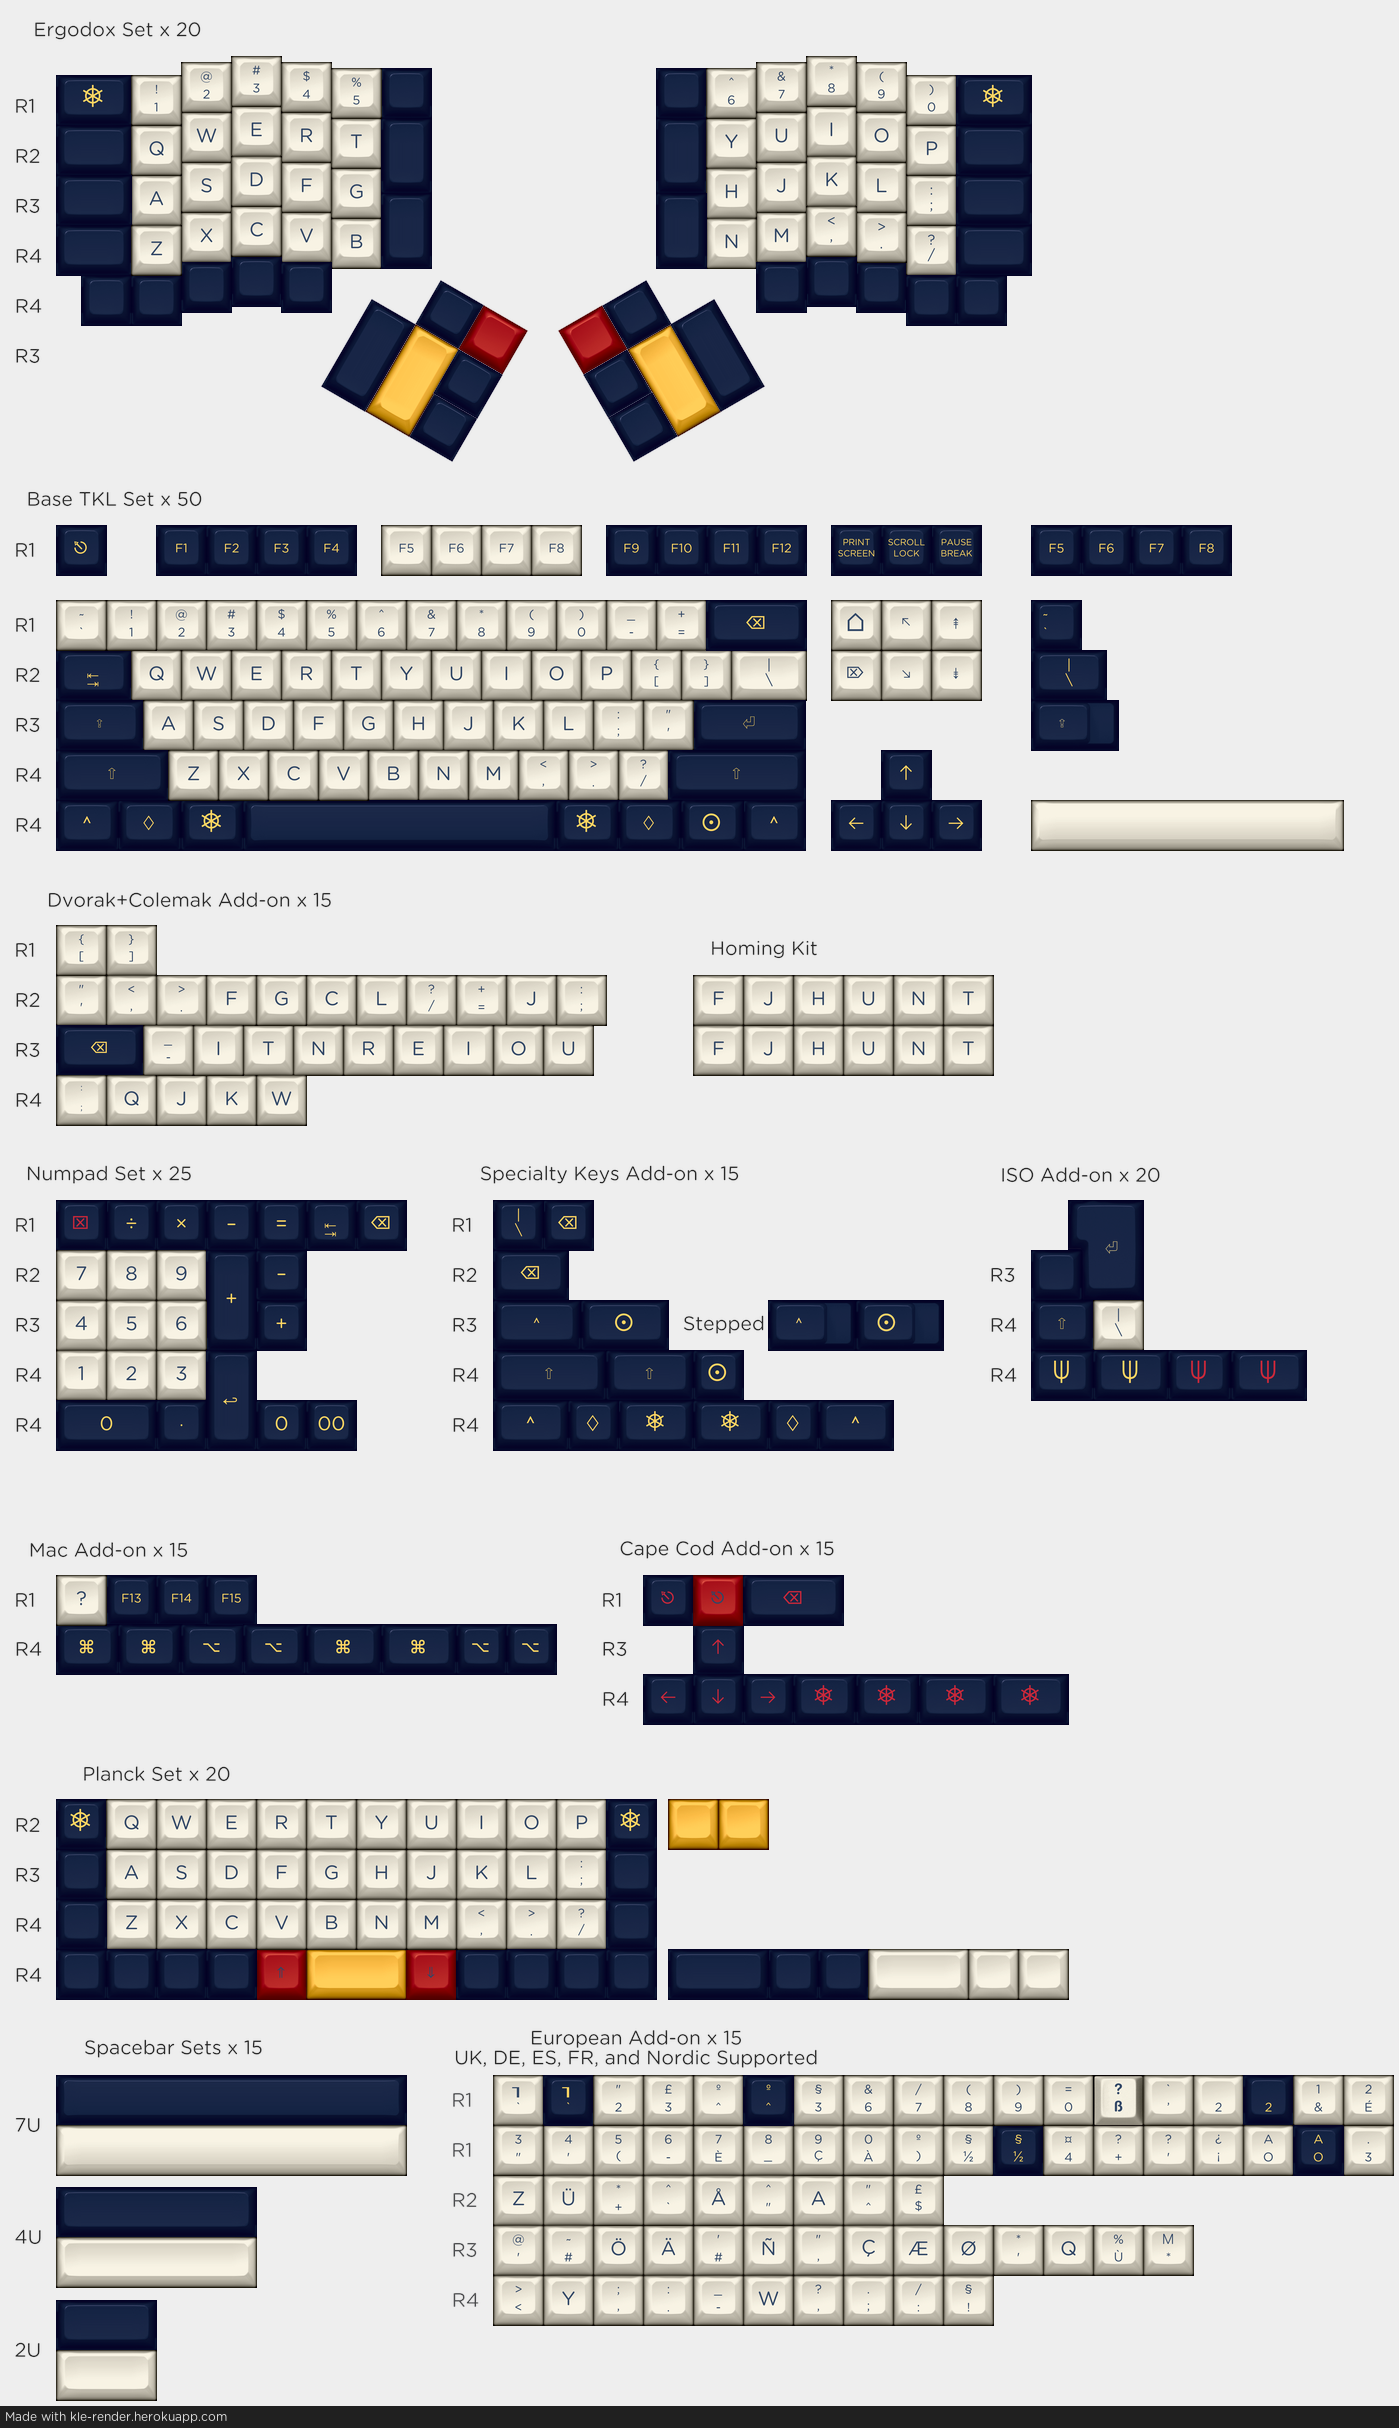
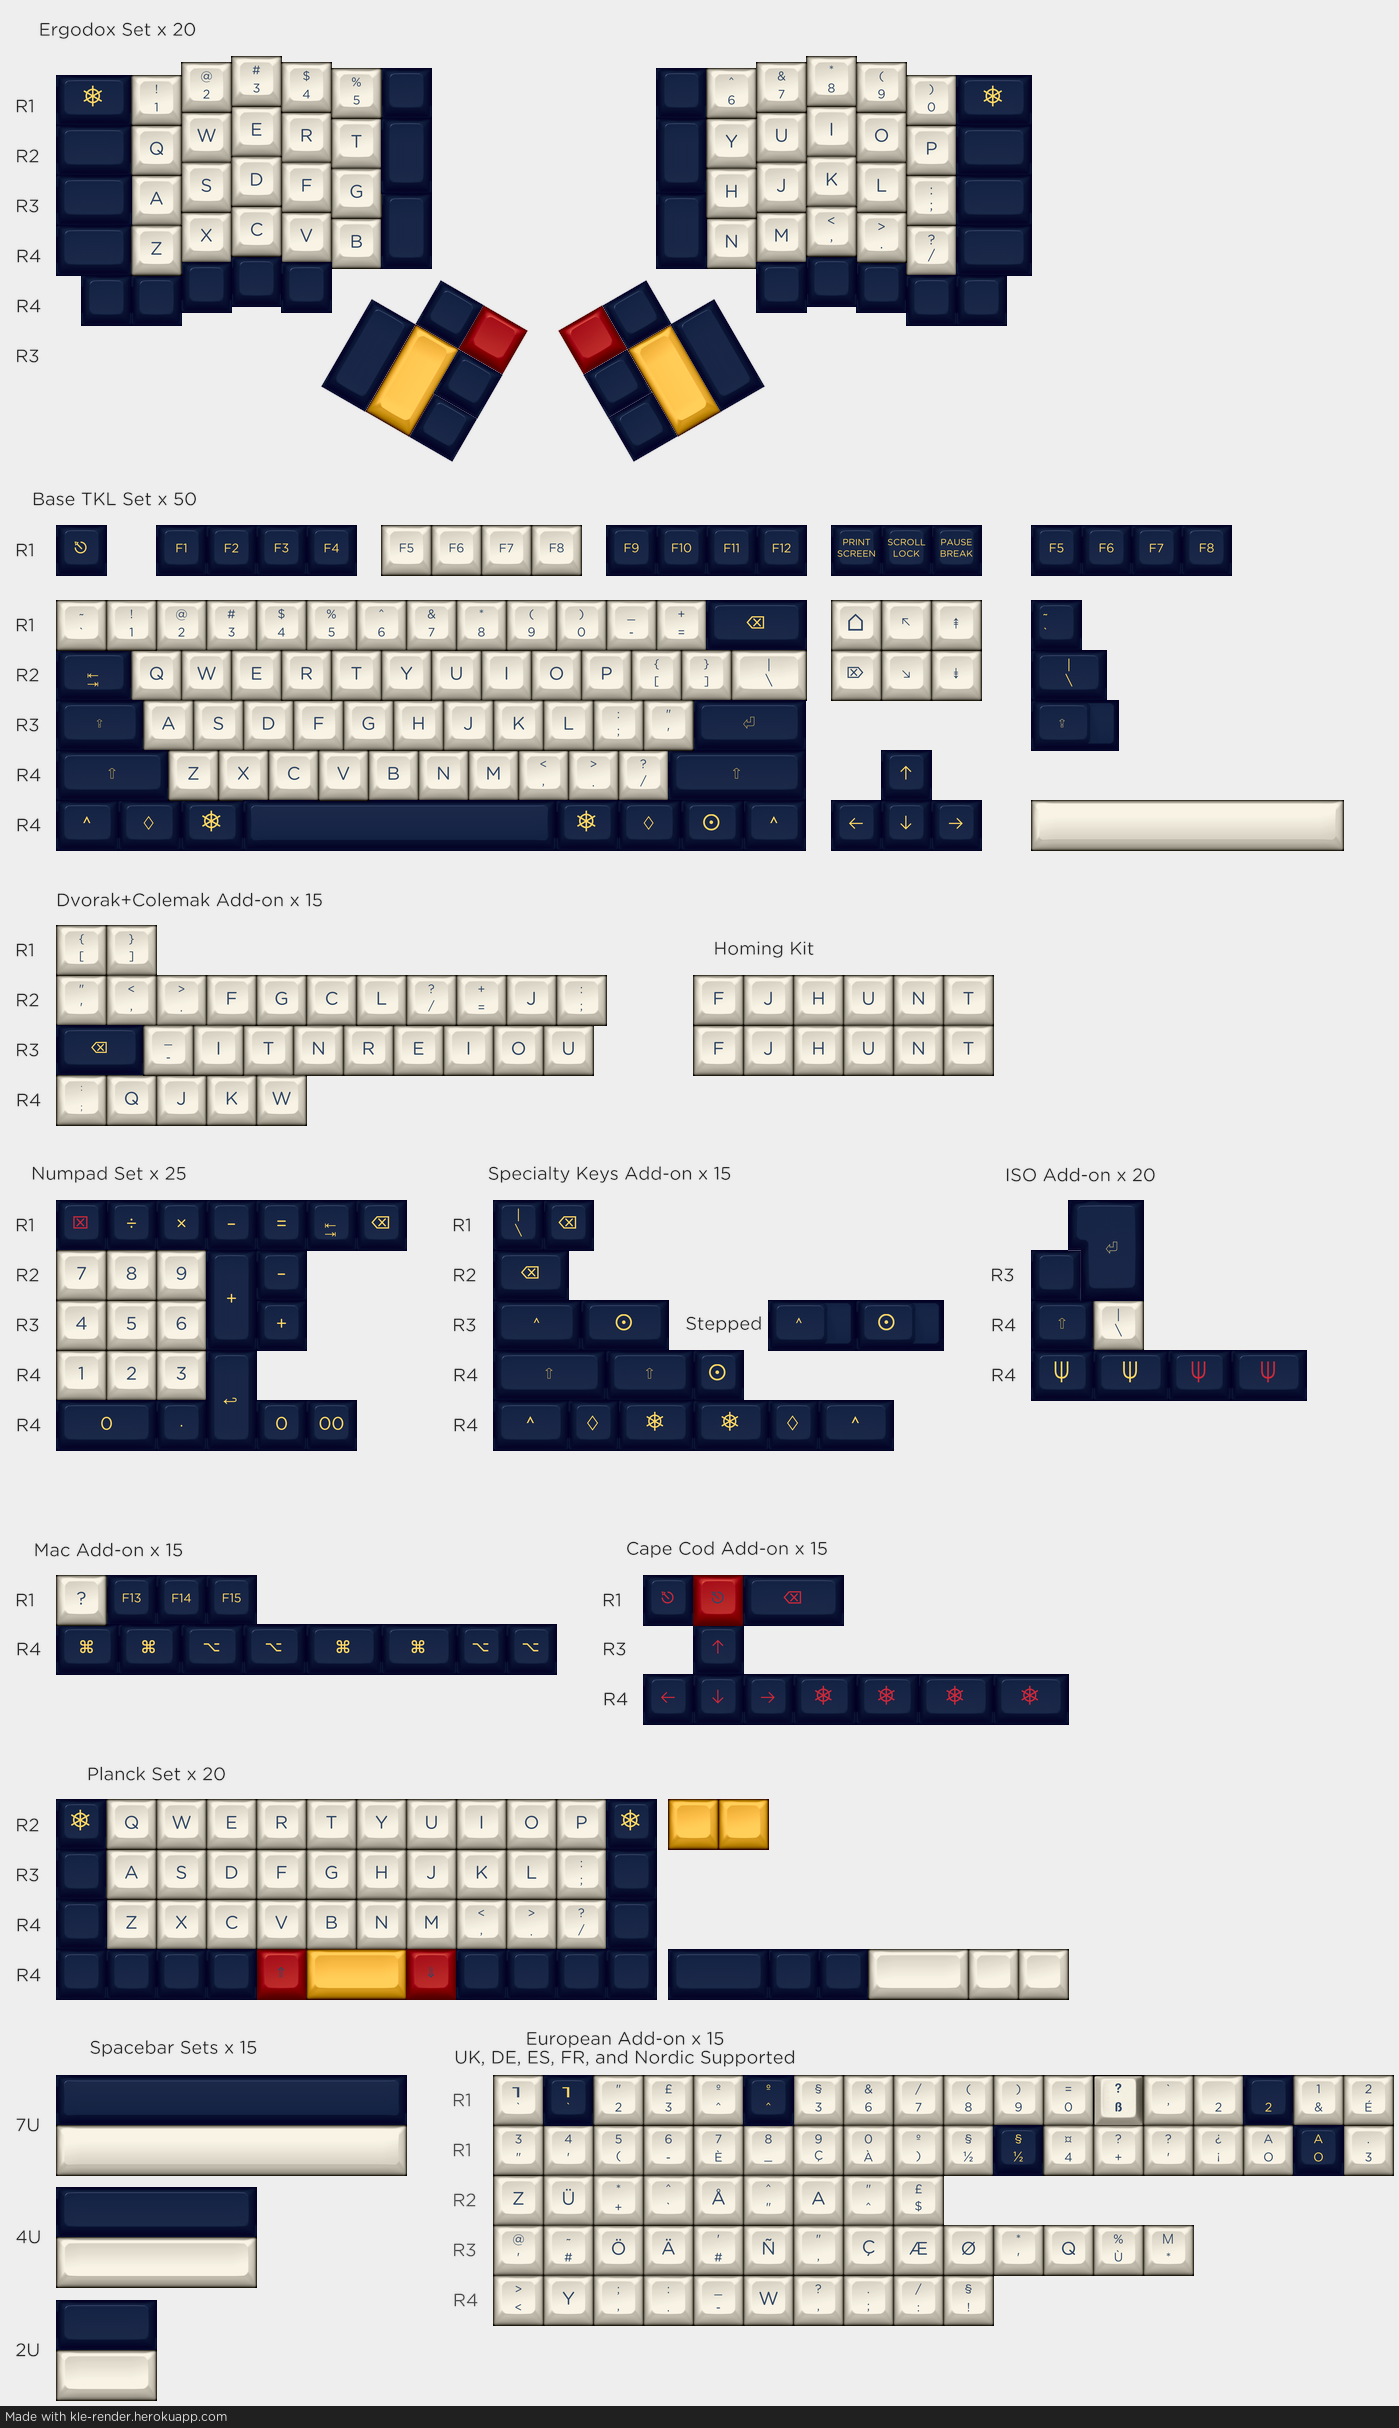
Added multiple legend color support, trying more consistent legend sizing between profiles

diff --git a/key.py b/key.py
@@ -27,7 +27,7 @@ class Key(object):
         self.width2 = 0.0
         self.height2 = 0.0
         self.color = '#EEEEEE'
-        self.font_color = '#000000'
+        self.font_color = ['#000000']
         self.labels =[]
         self.align = -1
         self.font_size = 3.0
@@ -194,28 +194,26 @@ class Key(object):
         else:
             if self.decal:
                 offset = 0  # pixels to shift text upwards to center it in keycap top
-                scale_factor = 7 # multiply this by the legend size and add to min_size to get font size for that legend
-                min_size = 14
+                scale_factor = 6#7 # multiply this by the legend size and add to min_size to get font size for that legend
+                min_size = 18#14
                 line_spacing = 16 # space between lines (only matters for <= 2 labels)
                 width_limit = key_img.width # maximum line width in pixels before automatic line break (Only matters for 1 label)
             elif self.profile.startswith(GMK_LABELS):
                 offset = 12
-                scale_factor = 9
-                min_size = 12
+                scale_factor = 6#9
+                min_size = 18#12
                 line_spacing = 12
                 width_limit = key_img.width - 60
             else:
                 offset = 12
-                scale_factor = 7
-                min_size = 14
+                scale_factor = 6
+                min_size = 18
                 line_spacing = 16
                 width_limit = key_img.width - 64
                 labels = [labels[i].upper() for i in range(len(labels))] # Only uppercase legends on SA keycaps
 
             font = ImageFont.truetype(self.font_path(), int(self.font_size*scale_factor)+min_size)
             draw = ImageDraw.Draw(key_img)
-            c = ImageColor.getrgb(self.font_color)
-            c = tuple(band + 0x26 for band in c) # Simulates reflectivity 
 
             if self.align == -1: # if not explicitly aligned
                 if not self.profile.startswith(GMK_LABELS) and not self.decal and labels[0] != '': # If single label and not explicitly aligned, default center align SA profile
@@ -239,9 +237,11 @@ class Key(object):
             align = [i-1 for i in alignments[self.align]]
 
             for i in range(len(labels)):
-                if labels[i] != '':
+                if labels[i].strip(): # ignores empty and whitespace only strings
                     text = self.break_text(labels[i], font, width_limit)
                     w, h = self.text_size(text, font, line_spacing)
+                    c = ImageColor.getrgb(self.font_color[i] if i < len(self.font_color) and len(self.font_color[i]) > 0 else self.font_color[0]) # color defaults to first if unspecified
+                    c = tuple(band + 0x26 for band in c) # Simulates reflectivity 
                     if i == align[0]:
                         draw.multiline_text((45, 45-offset), text, font=font, fill=c, spacing=line_spacing, align='left')
                     elif i == align[6]:

diff --git a/kle_render.py b/kle_render.py
@@ -72,8 +72,8 @@ def html_to_unicode(html): # unescaped html input
         d = json.load(data1)
     with open('kbd-webfont2unicode.json') as data2:
         d2 = json.load(data2)
-    pattern = re.compile('|'.join(("<i class='fa {}'></i>".format(icon) for icon in d.keys()))) # I know, re's and html...
-    pattern2 = re.compile('|'.join(("<i class='kb kb-{}'></i>".format(icon) for icon in d2.keys())))
+    pattern = re.compile('|'.join(('<i class=[\'\"]fa ({})[\'\"]></i>'.format(icon) for icon in d.keys()))) # I know, re's and html...
+    pattern2 = re.compile('|'.join(('<i class=[\'\"]kb kb-({})[\'\"]></i>'.format(icon) for icon in d2.keys())))
 
     result = pattern.sub(lambda x: chr(int(d[x.group()[13:-6]], 16)), html)
     result = pattern2.sub(lambda x: chr(int(d2[x.group()[16:-6]], 16)), result)
@@ -120,11 +120,10 @@ def deserialise(rows): # where rows is a dictionary version of Keyboard Layout E
                     if 'c' in key:
                         current.color = key['c'].replace(';', '')
                     if 't' in key:
-                        f_color = key['t'].replace(';', '').replace('\n', '')
-                        if '#' in f_color[1:]: # hack to prevent multiple font colors from causing crash
-                            f_color = f_color[:4]
-                        if color_format.match(f_color): # more gracefully handle invalid colors
-                            current.font_color = f_color
+                        f_colors = [''.join(c for c in line if c in '0123456789abcdefABCDEF#') for line in key['t'].splitlines()]
+                        f_colors = [color for color in f_colors if color_format.match(color) or not color.strip()] # more gracefully handle invalid colors
+                        if len(f_colors) > 0:
+                            current.font_color = f_colors
                     if 'x' in key:
                         current.x += float(key['x'])
                     if 'y' in key:
